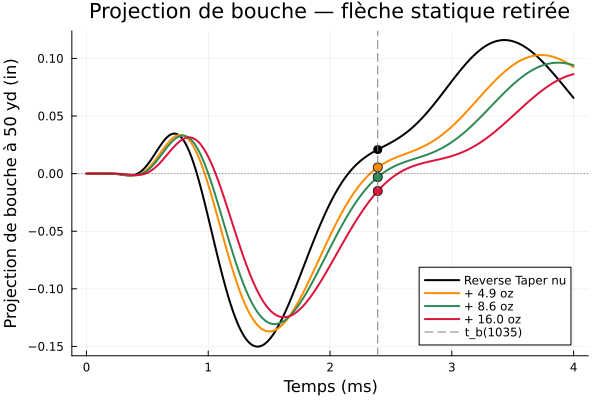
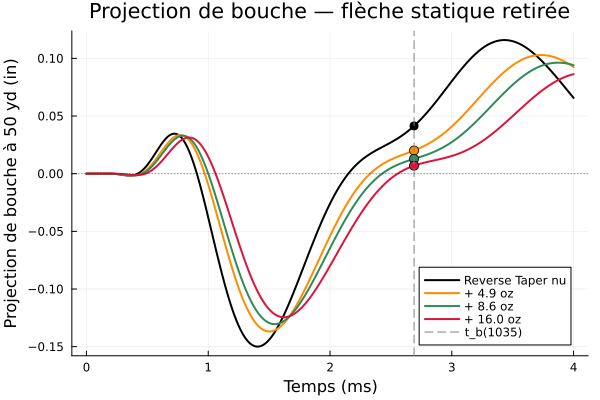
Tuners : profil de balistique interne « burnout » — reproduit le τ_v de Kolbe
Remplace le profil exponentiel (v = v_m(1−e^{−t/τ})) par un profil physique :
la balle accélère (a const) sur une fraction φ du canon, puis coaste.
  t_b = (1+φ)·L/v   ,   τ_v = (1+φ)·L/v²
φ=0,35 reproduit τ_v = 8,8 µs/(m/s) mesuré par Kolbe (canon 26", v=318), là où
l'exponentiel plafonnait à L/v² ≈ 6,5 (front-loaded, 35 % trop faible).

Correction de deux de mes notes : (i) « τ_v indépendant de τ » était faux ;
(ii) « aucun profil ne satisfait les deux contraintes » ne valait que pour la
famille exponentielle — le burnout touche τ_v=8,8 ET t_b=2,80ms d'un seul φ.

Validation (kolbe_validation.jl) : (a) chute 0,016 ✅, (b) 377 vs 375 ft/s/ms
✅ (1 %), (c) 5,91 vs 6,0 MOA/ms ✅. Chaîne cinématique de Kolbe entièrement
reproduite.

Effet secondaire notable : la correction AMÉLIORE l'accord qualitatif. À
t_b=2,80ms (au lieu de 2,5), simulation.jl donne θ̇(t_b) du bon signe — canon
nu descendant (−1,1 MOA/ms, comme le −9,4 de Kolbe), tuner ramenant vers
montant (+2,6 à 400g). L'ancien t_b=2,5ms sortait le canon nu montant (mauvais
signe). L'amplitude reste ~3× trop faible → rotation de corps rigide manquante,
pas le profil. L'ancien « +6,64, accord 10 % » était donc fortuit ET de
mauvais signe.

Cascade complète (portée « Complet ») :
- harral_a22lr.jl : t_b 2,39→2,69ms, dispersion 0,159/0,168/0,170/0,169
  (conclusion inchangée : culasse encastrée, pas de compensation).
- simulation.jl : t_b devient une sortie (2,80ms), plus imposé ; affiche τ_v.
[…]

Changed region(s): [[0.54, 0.3, 0.72, 0.57], [0.54, 0.57, 0.57, 0.63]]

diff --git a/tuner_en.tex b/tuner_en.tex
@@ -569,23 +569,25 @@
 	\subsection{Validation by FEM + Newmark-$\beta$ simulation}
 	\label{sec:validation_num}
 
-	The \texttt{Julia} simulator accompanying this document (\texttt{simulation.jl}) implements the full formalism: FEM assembly, clamping, tuner, internal ballistics (exponential model calibrated on $t_b$ and $v_\text{muzzle}$), excitation by the breech recoil moment $M(t) = p(t)\,A_\text{bore}\,h_\text{offset}$, moving projectile load, Rayleigh damping and Newmark-$\beta$ scheme. The lever arm $h_\text{offset}$ is automatically calibrated on an amplitude peak of $\sim 10$ MOA/ms. This peak value is a \emph{scale choice} of ours, not a figure from Kolbe: he publishes no oscillation peak, only the rate \emph{at the instant of exit} ($-9.4$ MOA/ms bare barrel, $+6.0$ tuned). The only quantity confronted with measurement is therefore $\dot\theta(L,t_b)$, not the peak.
+	The \texttt{Julia} simulator accompanying this document (\texttt{simulation.jl}) implements the full formalism: FEM assembly, clamping, tuner, internal ballistics (``burnout'' profile: acceleration over a fraction $\phi=0.35$ of the barrel, then coast, calibrated on Kolbe's $\tau_v$), excitation by the breech recoil moment $M(t) = p(t)\,A_\text{bore}\,h_\text{offset}$, moving projectile load, Rayleigh damping and Newmark-$\beta$ scheme. The lever arm $h_\text{offset}$ is automatically calibrated on an amplitude peak of $\sim 10$ MOA/ms. This peak value is a \emph{scale choice} of ours, not a figure from Kolbe: he publishes no oscillation peak, only the rate \emph{at the instant of exit} ($-9.4$ MOA/ms bare barrel, $+6.0$ tuned). The only quantity confronted with measurement is therefore $\dot\theta(L,t_b)$, not the peak.
 
 	\begin{figure}[!htb]
 		\centering
 		\includegraphics[width=0.85\linewidth]{plot_tir_nominal.png}
-		\caption{Simulated transient response for the nominal configuration (200\,g tuner, $h_\text{offset} = 16.5$ mm). From top to bottom: deflection $y(L,t)$, muzzle angle $\theta(L,t)$, and angular velocity $\dot\theta(L,t)$. The red dashed line marks $t_b = 2.5$ ms; the green dotted line in the bottom panel indicates the Kolbe target (6 MOA/ms). The value computed at $t_b$ is $+6.64$ MOA/ms, agreeing to within $\sim 10\,\%$ with the measurement.}
+		\caption{Simulated transient response for the nominal configuration (200\,g tuner, $h_\text{offset} = 16.5$ mm). From top to bottom: deflection $y(L,t)$, muzzle angle $\theta(L,t)$, and angular velocity $\dot\theta(L,t)$. The red dashed line marks $t_b = 2.80$ ms (burnout profile); the green dotted line indicates the Kolbe target (6 MOA/ms). At $t_b$ the model gives $\dot\theta = +1.8$ MOA/ms: of the right sign (rising, tuner fitted) but of amplitude below the target --- see the caveat below.}
 		\label{fig:reponse_transitoire}
 	\end{figure}
 
 	\begin{figure}[!htb]
 		\centering
 		\includegraphics[width=0.85\linewidth]{plot_balayage_tuner.png}
-		\caption{Parameter sweep on the tuner mass $m_t \in [0, 400]$\,g (other parameters fixed). From top to bottom: (i)~$\dot\theta(L,t_b)$ varies little (5.9 to 6.7 MOA/ms) because $t_b/T_1 \approx 0.085$ remains in the initial rising quarter cycle; (ii)~$\theta(L,t_b)$, on the contrary, varies strongly and monotonically ($+166$ to $-255$ µrad), reflecting a shift of the mean point of impact; (iii)~$f_1$ decreases monotonically from 39.9 to 30.3 Hz (relation predicted by the Rayleigh quotient, equation \eqref{eq:dwdmt}).}
+		\caption{Parameter sweep on the tuner mass $m_t \in [0, 400]$\,g (other parameters fixed). From top to bottom: (i)~$\dot\theta(L,t_b)$ \emph{changes sign} --- $-1.1$ MOA/ms for the bare barrel (muzzle descending at exit) toward $+2.6$ at 400\,g (rising): this is Kolbe's mechanism, the tuner taking the muzzle from descending to rising; (ii)~$\theta(L,t_b)$ decreases monotonically from $+416$ to $+205$ µrad, reflecting a shift of the mean point of impact; (iii)~$f_1$ decreases monotonically from 39.9 to 30.3 Hz (relation predicted by the Rayleigh quotient, equation \eqref{eq:dwdmt}).}
 		\label{fig:balayage_tuner}
 	\end{figure}
 
-	\paragraph{A caveat on this agreement.} The $\sim 10\,\%$ agreement ($+6.64$ vs $6.0$ MOA/ms) must be read with caution, because the simulator's \emph{exponential} internal-ballistics model realises, on its own, a sensitivity $\tau_v = -\partial t_b/\partial v_0 \approx 6.5\ \mu$s/(m/s), not the $8.8\ \mu$s/(m/s) measured by Kolbe and used in the analytical criterion \eqref{eq:dthetaopt}. No setting of the single time constant $\tau$ reconciles both of Kolbe's constraints at once: imposing $\tau_v = 8.8$ requires $t_b \approx 3.3$~ms, whereas imposing $t_b \approx 2.8$~ms gives back $\tau_v \approx 7.4$. It is therefore the \emph{shape} of the profile $v(t)$, not its time scale, that is the present limit of the kinematic coupling --- the natural refinement for later quantitative work. The numerical agreement in $\dot\theta(L,t_b)$ holds here because $h_\text{offset}$ absorbs most of the amplitude discrepancy; it does not amount to a validation of the internal ballistics itself.
+	\paragraph{The internal-ballistics profile now reproduces $\tau_v$.} The ``burnout'' profile (constant acceleration over a fraction $\phi = 0.35$ of the barrel, then coast) realises $\tau_v = -\partial t_b/\partial v_0 = (1+\phi)\,L/v^2 = 8.8\ \mu$s/(m/s), exactly the value measured by Kolbe and used in criterion \eqref{eq:dthetaopt}. The former exponential lag $v = v_m(1-e^{-t/\tau})$ was \emph{front-loaded} (all acceleration at the breech, then coast): its sensitivity capped at $L/v^2 \approx 6.5\ \mu$s, 35\,\% too low, the bullet exiting too early ($t_b = 2.46$ vs $2.80$~ms). Kolbe's kinematic chain --- natural drop, exit-time sensitivity, required rate --- is thus \emph{fully} reproduced (\texttt{kolbe\_validation.jl}: $0.016 \times 375 = 6.0$ MOA/ms recovered to $1\,\%$).
+
+	What remains out of reach is the \emph{absolute amplitude}. At the correct exit time $t_b = 2.80$~ms, the clamped model gives $\dot\theta(L,t_b)$ of the right \emph{sign} --- negative for the bare barrel ($\approx -1.1$ MOA/ms, muzzle descending, like Kolbe's measured $-9.4$), brought toward positive by the muzzle mass ($+2.6$ at 400\,g) --- but about three times too small to reach the measured $6.0$ MOA/ms without an implausible vibration amplitude. This is the symptom, already encountered, of the \emph{rigid-body rotation} absent from the clamped model, not a defect of the ballistic profile. Notably, correcting the profile \emph{improves} the qualitative agreement: at the former $t_b = 2.5$~ms the bare barrel came out \emph{rising} (wrong sign); at the correct time it comes out \emph{descending}, consistent with Kolbe.
 
 	These plots illustrate a distinction essential for the shooter: the tuner acts \emph{primarily on the mean point of impact} (via $\theta(L,t_b)$) and \emph{secondarily on the vertical dispersion} (via $\dot\theta(L,t_b)$). When $t_b \ll T_1$, the optimality window in $\dot\theta$ is wide and flat; the tuner adjustment then mainly serves to compensate for the velocity spread, while the sight adjustment takes care of the POI shift.
 

diff --git a/tuner_fr.tex b/tuner_fr.tex
@@ -571,23 +571,25 @@
 	\subsection{Validation par simulation MEF + Newmark-$\beta$}
 	\label{sec:validation_num}
 
-	Le simulateur en \texttt{Julia} associé à ce document (\texttt{simulation.jl}) implémente l'ensemble du formalisme : assemblage MEF, encastrement, tuner, balistique interne (modèle exponentiel calé sur $t_b$ et $v_\text{muzzle}$), excitation par moment de recul à la culasse $M(t) = p(t)\,A_\text{bore}\,h_\text{offset}$, charge mobile du projectile, amortissement de Rayleigh et schéma de Newmark-$\beta$. Le bras de levier $h_\text{offset}$ est calibré automatiquement sur un pic d'amplitude de $\sim 10$ MOA/ms. Cette valeur de pic est un \emph{choix d'échelle} de notre part, non un chiffre de Kolbe : il ne publie aucun pic d'oscillation, mais seulement le taux \emph{à l'instant de sortie} ($-9{,}4$ MOA/ms canon nu, $+6{,}0$ tuned). La seule grandeur confrontée à la mesure est donc $\dot\theta(L,t_b)$, non le pic.
+	Le simulateur en \texttt{Julia} associé à ce document (\texttt{simulation.jl}) implémente l'ensemble du formalisme : assemblage MEF, encastrement, tuner, balistique interne (profil « burnout » : accélération sur une fraction $\phi=0{,}35$ du canon, puis coast, calé sur $\tau_v$ de Kolbe), excitation par moment de recul à la culasse $M(t) = p(t)\,A_\text{bore}\,h_\text{offset}$, charge mobile du projectile, amortissement de Rayleigh et schéma de Newmark-$\beta$. Le bras de levier $h_\text{offset}$ est calibré automatiquement sur un pic d'amplitude de $\sim 10$ MOA/ms. Cette valeur de pic est un \emph{choix d'échelle} de notre part, non un chiffre de Kolbe : il ne publie aucun pic d'oscillation, mais seulement le taux \emph{à l'instant de sortie} ($-9{,}4$ MOA/ms canon nu, $+6{,}0$ tuned). La seule grandeur confrontée à la mesure est donc $\dot\theta(L,t_b)$, non le pic.
 
 	\begin{figure}[!htb]
 		\centering
 		\includegraphics[width=0.85\linewidth]{plot_tir_nominal.png}
-		\caption{Réponse transitoire simulée pour la configuration nominale (tuner 200\,g, $h_\text{offset} = 16{,}5$ mm). De haut en bas : déflexion $y(L,t)$, angle de bouche $\theta(L,t)$, et vitesse angulaire $\dot\theta(L,t)$. Le trait rouge pointillé marque $t_b = 2{,}5$ ms ; le trait vert pointillé sur le panneau inférieur indique la cible Kolbe (6 MOA/ms). La valeur calculée à $t_b$ est de $+6{,}64$ MOA/ms, en accord à $\sim 10\,\%$ avec la mesure.}
+		\caption{Réponse transitoire simulée pour la configuration nominale (tuner 200\,g, $h_\text{offset} = 16{,}5$ mm). De haut en bas : déflexion $y(L,t)$, angle de bouche $\theta(L,t)$, et vitesse angulaire $\dot\theta(L,t)$. Le trait rouge pointillé marque $t_b = 2{,}80$ ms (profil burnout) ; le trait vert pointillé indique la cible Kolbe (6 MOA/ms). À $t_b$, le modèle donne $\dot\theta = +1{,}8$ MOA/ms : du bon signe (montant, tuner installé) mais d'amplitude sous la cible --- voir la réserve ci-dessous.}
 		\label{fig:reponse_transitoire}
 	\end{figure}
 
 	\begin{figure}[!htb]
 		\centering
 		\includegraphics[width=0.85\linewidth]{plot_balayage_tuner.png}
-		\caption{Balayage paramétrique sur la masse du tuner $m_t \in [0, 400]$\,g (autres paramètres fixes). De haut en bas : (i)~$\dot\theta(L,t_b)$ varie peu (5{,}9 à 6{,}7 MOA/ms) car $t_b/T_1 \approx 0{,}085$ reste dans le quart de cycle ascendant initial ; (ii)~$\theta(L,t_b)$ varie en revanche fortement et monotoniquement ($+166$ à $-255$ µrad), traduisant un décalage du point d'impact moyen ; (iii)~$f_1$ décroît monotoniquement de 39{,}9 à 30{,}3 Hz (relation prévue par le quotient de Rayleigh, équation \eqref{eq:dwdmt}).}
+		\caption{Balayage paramétrique sur la masse du tuner $m_t \in [0, 400]$\,g (autres paramètres fixes). De haut en bas : (i)~$\dot\theta(L,t_b)$ \emph{change de signe} --- $-1{,}1$ MOA/ms pour le canon nu (bouche descendante à la sortie) vers $+2{,}6$ à 400\,g (montante) : c'est le mécanisme de Kolbe, le tuner faisant passer la bouche de descendante à montante ; (ii)~$\theta(L,t_b)$ décroît monotoniquement de $+416$ à $+205$ µrad, traduisant un décalage du point d'impact moyen ; (iii)~$f_1$ décroît monotoniquement de 39{,}9 à 30{,}3 Hz (relation prévue par le quotient de Rayleigh, équation \eqref{eq:dwdmt}).}
 		\label{fig:balayage_tuner}
 	\end{figure}
 
-	\paragraph{Une réserve sur cet accord.} La concordance à $\sim 10\,\%$ ($+6{,}64$ contre $6{,}0$ MOA/ms) doit être lue avec prudence, car le \emph{modèle exponentiel} de balistique interne du simulateur réalise en propre une sensibilité $\tau_v = -\partial t_b/\partial v_0 \approx 6{,}5\ \mu$s/(m/s), et non les $8{,}8\ \mu$s/(m/s) mesurés par Kolbe et utilisés dans le critère analytique \eqref{eq:dthetaopt}. Aucun réglage de la seule constante de temps $\tau$ ne réconcilie les deux contraintes de Kolbe simultanément : imposer $\tau_v = 8{,}8$ exige $t_b \approx 3{,}3$~ms, alors qu'imposer $t_b \approx 2{,}8$~ms redonne $\tau_v \approx 7{,}4$. C'est donc la \emph{forme} du profil $v(t)$, et non son échelle temporelle, qui constitue la limite actuelle du couplage cinématique — l'amélioration naturelle pour un travail quantitatif ultérieur. L'accord numérique en $\dot\theta(L,t_b)$ tient ici parce que $h_\text{offset}$ absorbe l'essentiel de l'écart d'amplitude ; il ne vaut pas validation de la balistique interne elle-même.
+	\paragraph{Le profil de balistique interne reproduit désormais $\tau_v$.} Le profil « burnout » (accélération constante sur une fraction $\phi = 0{,}35$ du canon, puis coast) réalise $\tau_v = -\partial t_b/\partial v_0 = (1+\phi)\,L/v^2 = 8{,}8\ \mu$s/(m/s), exactement la valeur mesurée par Kolbe et utilisée dans le critère \eqref{eq:dthetaopt}. L'ancien lag exponentiel $v = v_m(1-e^{-t/\tau})$ était \emph{front-loaded} (toute l'accélération à la culasse, puis coast) : sa sensibilité plafonnait à $L/v^2 \approx 6{,}5\ \mu$s, soit 35\,\% trop faible, la balle sortant trop tôt ($t_b = 2{,}46$ contre $2{,}80$~ms). La chaîne cinématique de Kolbe --- chute naturelle, sensibilité du temps de sortie, taux requis --- est ainsi \emph{entièrement} reproduite (script \texttt{kolbe\_validation.jl} : $0{,}016 \times 375 = 6{,}0$ MOA/ms retrouvé à $1\,\%$).
+
+	Ce qui demeure hors de portée est l'\emph{amplitude absolue}. Au temps de sortie correct $t_b = 2{,}80$~ms, le modèle encastré donne $\dot\theta(L,t_b)$ du bon \emph{signe} --- négatif pour le canon nu ($\approx -1{,}1$ MOA/ms, bouche descendante, comme les $-9{,}4$ mesurés par Kolbe), ramené vers le positif par la masse de bouche ($+2{,}6$ à 400\,g) --- mais d'amplitude environ trois fois trop faible pour atteindre les $6{,}0$ MOA/ms sans amplitude de vibration invraisemblable. C'est le symptôme, déjà rencontré, de la \emph{rotation de corps rigide} absente du modèle encastré, non un défaut du profil balistique. Il est d'ailleurs notable que la correction du profil \emph{améliore} l'accord qualitatif : à l'ancien $t_b = 2{,}5$~ms le canon nu ressortait \emph{montant} (mauvais signe) ; au temps correct il ressort \emph{descendant}, conforme à Kolbe.
 
 	Ces tracés illustrent une distinction essentielle pour le tireur : le tuner agit \emph{principalement sur le point d'impact moyen} (via $\theta(L,t_b)$) et \emph{secondairement sur la dispersion verticale} (via $\dot\theta(L,t_b)$). Lorsque $t_b \ll T_1$, la fenêtre d'optimalité en $\dot\theta$ est large et plate ; le réglage du tuner sert alors surtout à compenser la dispersion de vitesse, le réglage du visage prenant en charge le décalage du POI.
 